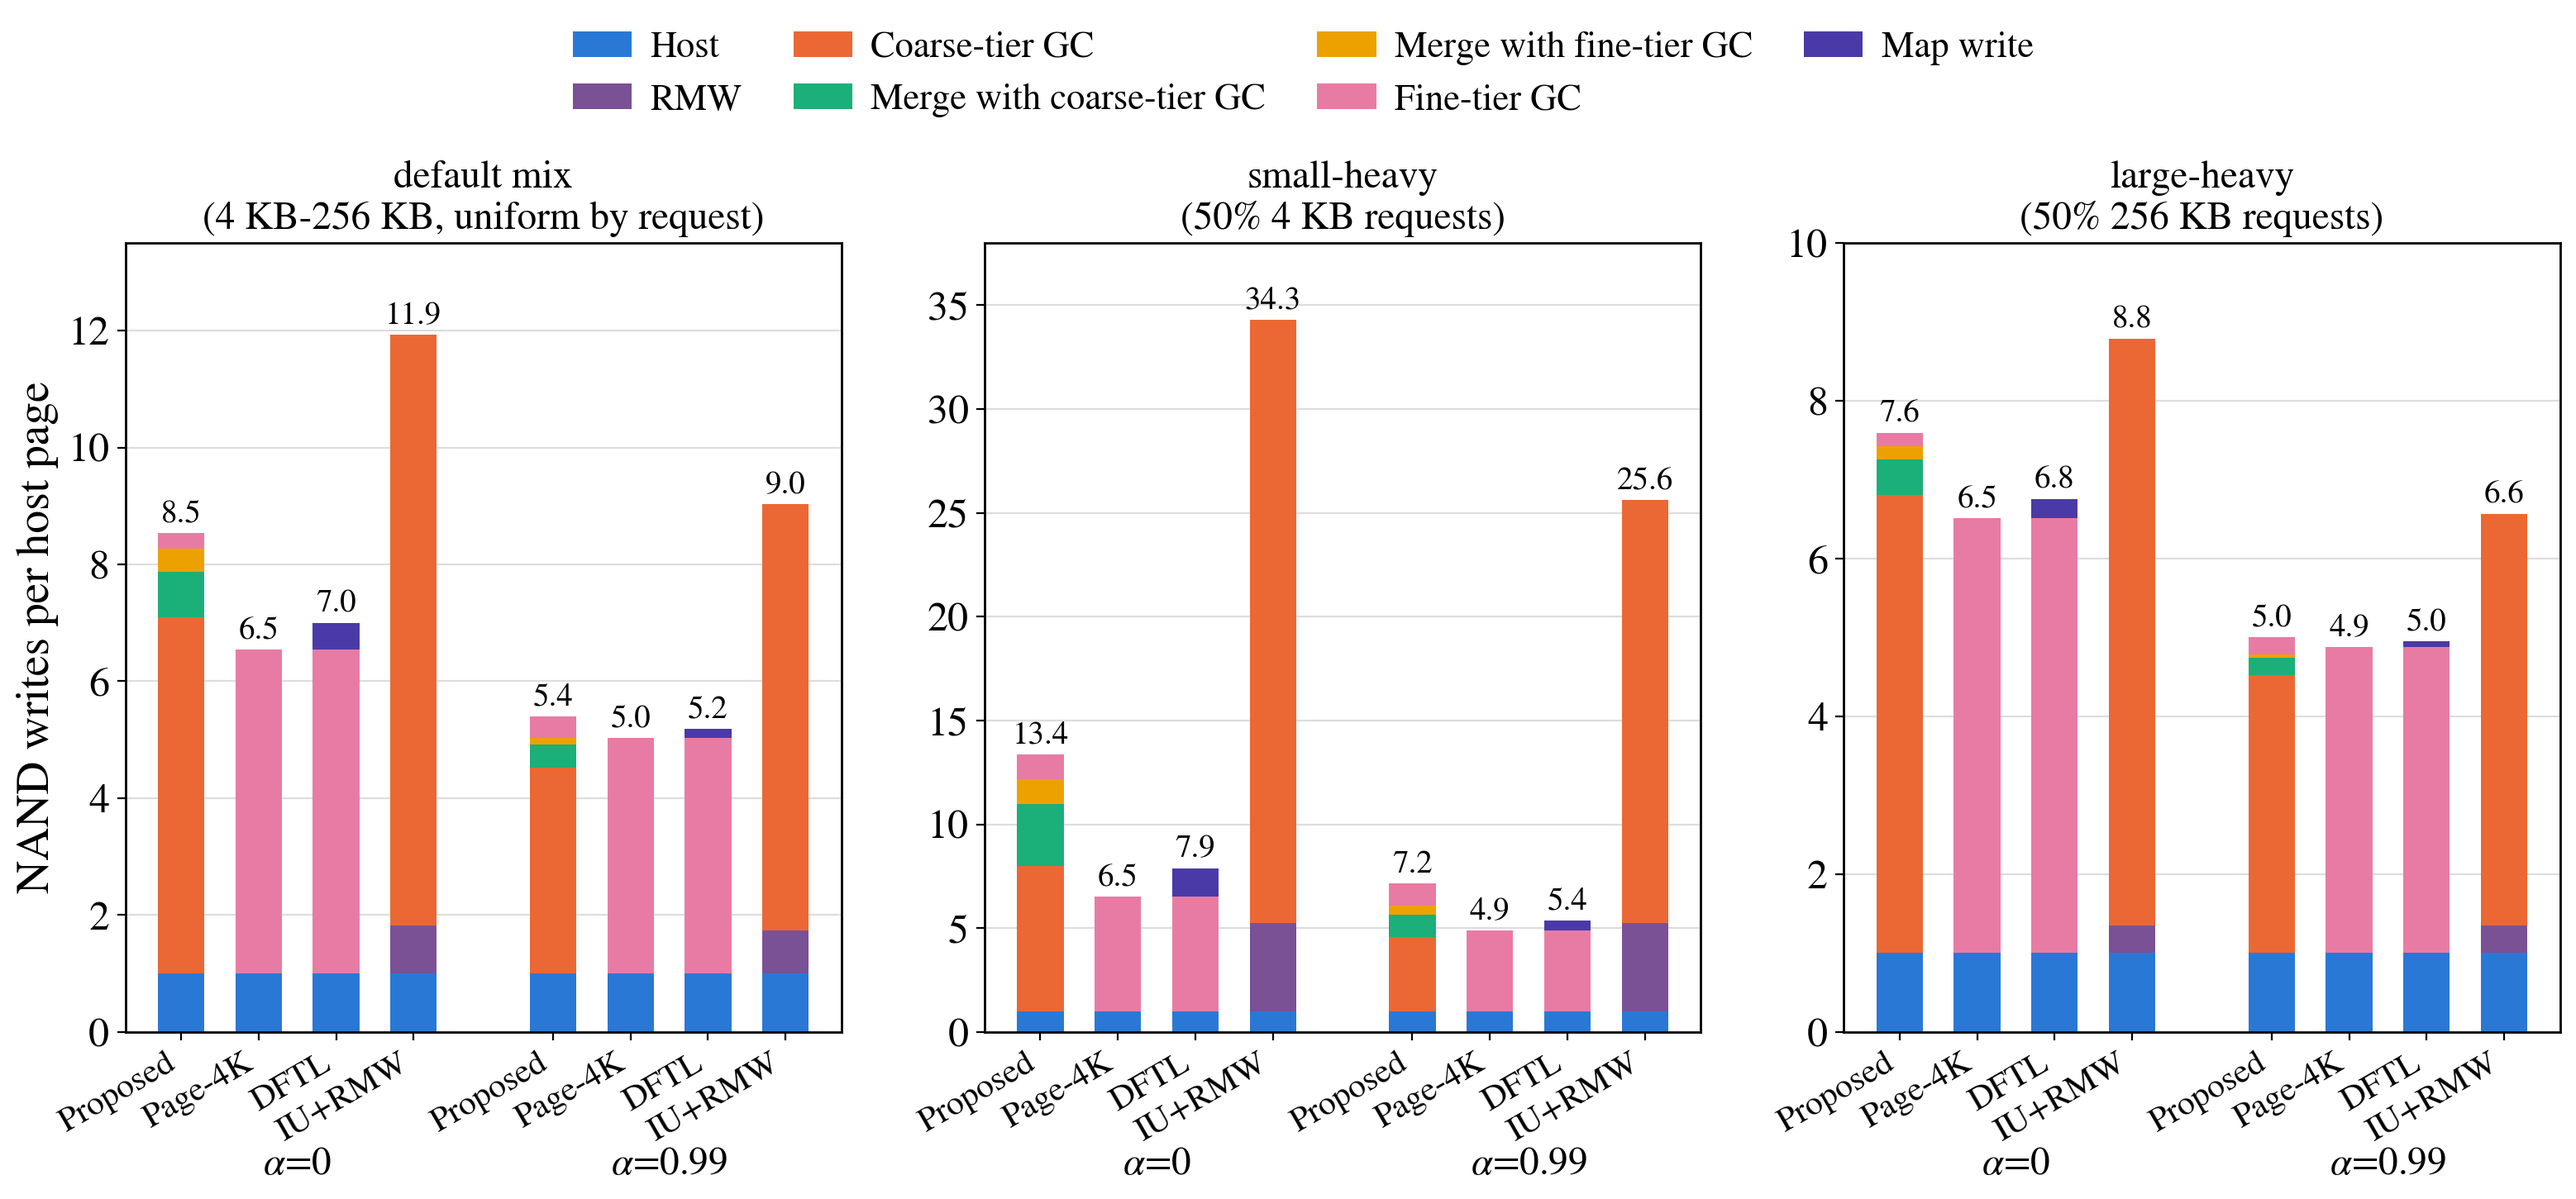
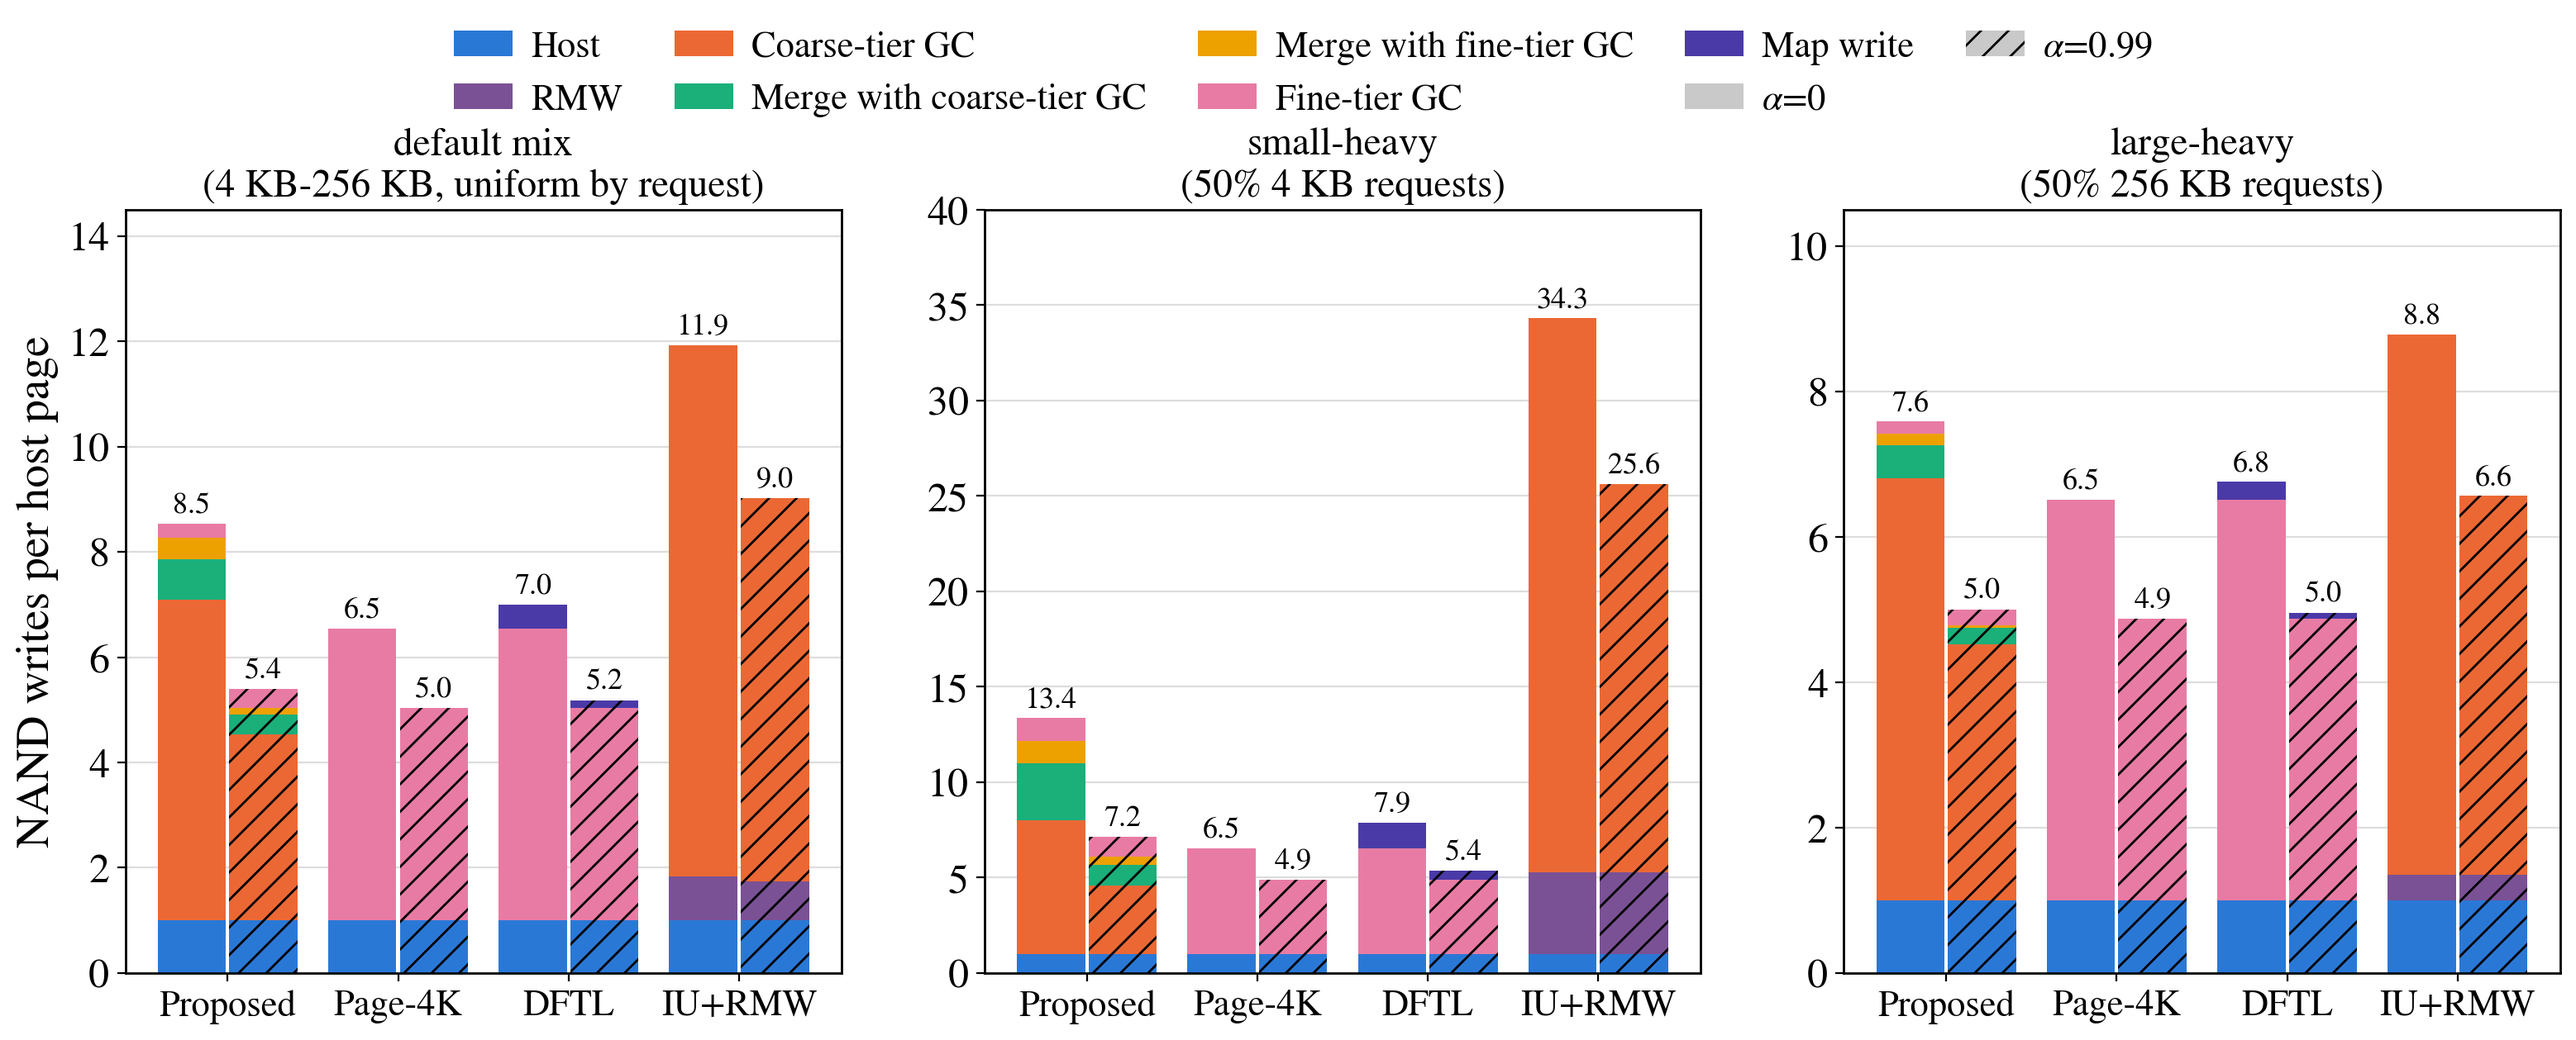
Draw write-breakdown figures as grouped bars (policy groups, zipf via hatch)

diff --git a/tools/plot.py b/tools/plot.py
@@ -45,6 +45,7 @@ matplotlib.use("Agg")
 import matplotlib.pyplot as plt  # noqa: E402
 import numpy as np  # noqa: E402
 from matplotlib.ticker import FixedLocator, FuncFormatter  # noqa: E402
+from matplotlib.patches import Patch  # noqa: E402
 
 ROOT = os.path.dirname(os.path.dirname(os.path.abspath(__file__)))
 OUT = sys.argv[1] if len(sys.argv) > 1 else os.path.join(ROOT, "results", "fig")
@@ -251,86 +252,82 @@ def fig_breakdown_sizes():
 def fig_breakdown_policies():
     """Write breakdown per policy for the default size mix (canonical setting)."""
     mods = POLICIES[:4]
-    zshow = ["0", "0.99"]
-    fig, ax = plt.subplots(figsize=(11, 6))
-    labels, recs, xs = [], [], []
-    for gi, z in enumerate(zshow):
-        for mi, (tag, label, _, _) in enumerate(mods):
-            recs.append(load(CANON, f"{tag}_z{z}.json"))
-            labels.append(label)
-            xs.append(gi * (len(mods) + 0.8) + mi)
-    tot = _stack(ax, np.array(xs, dtype=float), recs)
-    ax.set_xticks(xs)
-    ax.set_xticklabels(labels, rotation=30, ha="right", fontsize=16)
-    for gi, z in enumerate(zshow):
-        ax.annotate(r"$\alpha$=" + z, (gi * (len(mods) + 0.8) + (len(mods) - 1) / 2, 0),
-                    xytext=(0, -68), textcoords="offset points", ha="center", fontsize=18)
+    fig, ax = plt.subplots(figsize=(10, 6))
+    x = np.arange(len(mods), dtype=float)
+    tot = 0
+    for zi, (z, hatch) in enumerate([("0", None), ("0.99", "//")]):
+        recs = [load(CANON, f"{tag}_z{z}.json") for tag, _, _, _ in mods]
+        t = _stack(ax, x + (zi - 0.5) * 0.42, recs, width=0.4, hatch=hatch, legend=(zi == 0))
+        tot = max(tot, t.max())
+    ax.set_xticks(x)
+    ax.set_xticklabels([m[1] for m in mods], fontsize=17)
+    ax.set_xlim(-0.6, len(mods) - 0.4)
+    ax.set_ylim(0, tot * 1.12)
     ax.set_ylabel("NAND writes per host page")
-    ax.set_ylim(0, max(tot) * 1.1)
-    outside_legend(ax, 4)
     ax.grid(axis="y", color="#dddddd", linewidth=0.8)
     ax.set_axisbelow(True)
+    h, l = ax.get_legend_handles_labels()
+    h += [Patch(facecolor="#c9c9c9"), Patch(facecolor="#c9c9c9", hatch="//")]
+    l += [r"$\alpha$=0", r"$\alpha$=0.99"]
+    ax.legend(h, l, loc="lower center", bbox_to_anchor=(0.5, 1.02), ncol=3, frameon=False,
+              handlelength=1.6, columnspacing=1.4, handletextpad=0.5)
     save(fig, "fig5_breakdown_policies")
-
 
 # Unified write-source stack used by the policy-comparison figures.
 # page4k / DFTL map everything at 4 KB, so their GC is counted as fine-tier GC.
-STACK = [("host",       ["host"],               "Host",                      "#2a78d6"),
-         ("rmw",        ["rmw"],                "RMW",                       "#7a5195"),
-         ("coarse",     ["cgc_clean"],          "Coarse-tier GC",            "#eb6834"),
-         ("refold",     ["cgc_refold"],         "Merge with coarse-tier GC", "#1baf7a"),
-         ("fold",       ["fold", "unfold"],     "Merge with fine-tier GC",   "#eda100"),
-         ("fine",       ["finegc", "pgc"],      "Fine-tier GC",              "#e87ba4"),
-         ("map",        ["map"],                "Map write",                 "#4a3aa7")]
+STACK = [("host",   ["host"],           "Host",                      "#2a78d6"),
+         ("rmw",    ["rmw"],            "RMW",                       "#7a5195"),
+         ("coarse", ["cgc_clean"],      "Coarse-tier GC",            "#eb6834"),
+         ("refold", ["cgc_refold"],     "Merge with coarse-tier GC", "#1baf7a"),
+         ("fold",   ["fold", "unfold"], "Merge with fine-tier GC",   "#eda100"),
+         ("fine",   ["finegc", "pgc"],  "Fine-tier GC",              "#e87ba4"),
+         ("map",    ["map"],            "Map write",                 "#4a3aa7")]
 
 
-def _stack(ax, xs, recs, width=0.6, annotate=True):
+def _stack(ax, xs, recs, width=0.6, annotate=True, hatch=None, legend=True):
     bottom = np.zeros(len(recs))
     for _, keys, label, color in STACK:
         vals = np.array([sum(r["prog"].get(k, 0) for k in keys) / r["host_pages"] for r in recs])
         if vals.max() > 0:
-            ax.bar(xs, vals, width, bottom=bottom, label=label, color=color)
+            ax.bar(xs, vals, width, bottom=bottom, color=color, hatch=hatch,
+                   label=label if legend else None)
         bottom += vals
     if annotate:
         for x, t in zip(xs, bottom):
-            ax.annotate(f"{t:.1f}", (x, t), ha="center", va="bottom", fontsize=14,
+            ax.annotate(f"{t:.1f}", (x, t), ha="center", va="bottom", fontsize=13,
                         xytext=(0, 2), textcoords="offset points")
     return bottom
 
 
 def fig_breakdown_sizes_policies():
-    """Write breakdown per policy for the three request-size mixes."""
+    """Write breakdown per policy, grouped by policy, for the three request-size mixes."""
     mods = POLICIES[:4]
-    panels = [(CANON, "",      "default mix\n(4 KB-256 KB, uniform by request)", 13.5),
-              (SIZES, "small", "small-heavy\n(50% 4 KB requests)",              38),
-              (SIZES, "large", "large-heavy\n(50% 256 KB requests)",            10)]
-    fig, axes = plt.subplots(1, 3, figsize=(19, 6.2))
+    panels = [(CANON, "",      "default mix\n(4 KB-256 KB, uniform by request)", 14.5),
+              (SIZES, "small", "small-heavy\n(50% 4 KB requests)",              40),
+              (SIZES, "large", "large-heavy\n(50% 256 KB requests)",            10.5)]
+    fig, axes = plt.subplots(1, 3, figsize=(19, 6))
+    x = np.arange(len(mods), dtype=float)
     for ax, (d, dist, title, ymax) in zip(axes, panels):
-        labels, recs, xs = [], [], []
-        for gi, z in enumerate(["0", "0.99"]):
-            for mi, (tag, label, _, _) in enumerate(mods):
+        for zi, (z, hatch) in enumerate([("0", None), ("0.99", "//")]):
+            recs = []
+            for tag, _, _, _ in mods:
                 name = f"{tag}_z{z}.json" if not dist else f"{tag.replace('_eq','')}_{dist}_z{z}.json"
                 recs.append(load(d, name))
-                labels.append(label)
-                xs.append(gi * (len(mods) + 0.8) + mi)
-        _stack(ax, np.array(xs, dtype=float), recs)
-        ax.set_xticks(xs)
-        ax.set_xticklabels(labels, rotation=30, ha="right", fontsize=15)
+            _stack(ax, x + (zi - 0.5) * 0.42, recs, width=0.4, hatch=hatch,
+                   legend=(zi == 0 and ax is axes[0]))
+        ax.set_xticks(x)
+        ax.set_xticklabels([m[1] for m in mods], fontsize=16)
+        ax.set_xlim(-0.6, len(mods) - 0.4)
         ax.set_ylim(0, ymax)
         ax.set_title(title, fontsize=17)
         ax.grid(axis="y", color="#dddddd", linewidth=0.8)
         ax.set_axisbelow(True)
-        for gi, z in enumerate(["0", "0.99"]):
-            ax.annotate(r"$\alpha$=" + z, (gi * (len(mods) + 0.8) + (len(mods) - 1) / 2, 0),
-                        xytext=(0, -62), textcoords="offset points", ha="center", fontsize=17)
     axes[0].set_ylabel("NAND writes per host page")
-    h, l = [], []
-    for ax in axes:
-        for hh, ll in zip(*ax.get_legend_handles_labels()):
-            if ll not in l:
-                h.append(hh)
-                l.append(ll)
-    fig.legend(h, l, loc="lower center", bbox_to_anchor=(0.5, 0.97), ncol=4, frameon=False,
+    h, l = axes[0].get_legend_handles_labels()
+    h += [Patch(facecolor="#c9c9c9", label=r"$\alpha$=0"),
+          Patch(facecolor="#c9c9c9", hatch="//", label=r"$\alpha$=0.99")]
+    l += [r"$\alpha$=0", r"$\alpha$=0.99"]
+    fig.legend(h, l, loc="lower center", bbox_to_anchor=(0.5, 0.94), ncol=5, frameon=False,
                handlelength=1.6, columnspacing=1.4, handletextpad=0.5)
     save(fig, "fig5b_breakdown_sizes_policies")
 
